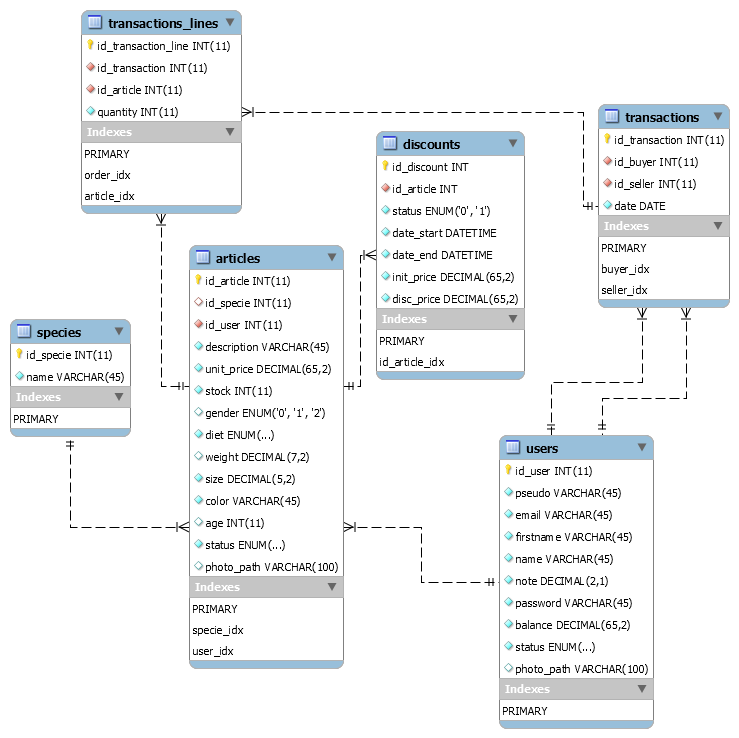
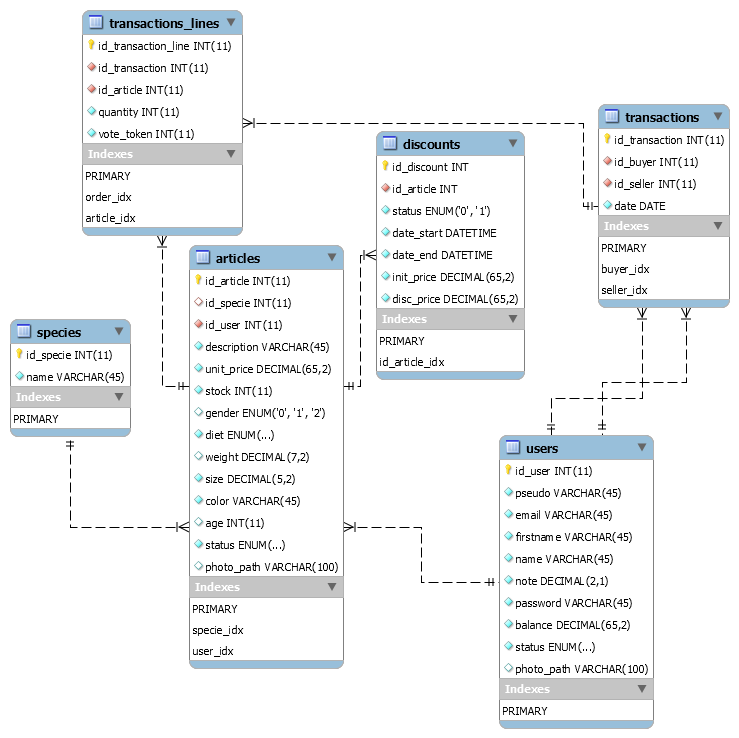
orders_working&vote_token

Changed region(s): [[0.0934, 0.0, 0.3424, 0.3428]]

diff --git a/view/view_orders.php b/view/view_orders.php
@@ -1,0 +1,97 @@
+<!DOCTYPE html>
+<html>
+<head>
+    <meta charset="utf-8" />
+    <title>View_my_orders</title>
+</head>
+<body>
+    <?php if (isset($_POST['ID'])) { echo '<a href="../controller/controller_orders.php"><button>Back</button></a>'; } else { echo '<a href="../controller/account_controller.php"><button>Back</button></a>'; } ?>
+    <h1 align = "center">Voici toutes vos commandes </h1>
+    <?php
+        if (isset($transactions)) {
+            if (!empty($transactions)) {
+                if (!isset($_POST['ID'])) {
+                    for ($i=0; $i<count($transactions) ; $i++) { 
+                        echo '
+                        <table style="font-size: 20px"  class="table" border="1" cellpadding="5" cellspacing="0.5" width="100%">
+                            <tr align = "center">
+                                <td>Order N°'.$transactions[$i]['id_transaction'].'</td>
+                                <td>Date : '.$transactions[$i]['date_transaction'] .'</td>
+                                <td>Seller : '.$transactions[$i]['seller'] .'</td>
+                                <td>
+                                    <form action="../controller/controller_orders.php" method="post">
+                                        <input type="hidden" name="ID" value="'.$transactions[$i]['id_transaction'].'">
+                                        <input type="hidden" name="tl" value="'.$transactions[$i]['id_transaction_line'].'">
+                                        <input type="submit" value="Voir">
+                                    </form>
+                                </td>
+                            </tr>
+                        </table>' ;                    
+                    }
+                } else if (isset($_POST['ID'])) {
+                    for ($i=0; $i<count($transactions) ; $i++) { 
+                        if ($transactions[$i]['id_transaction_line'] == $_POST['tl']) {
+                            echo '
+                            <table style="font-size: 20px" border = 1  class="table" cellpadding="5" cellspacing="0.5" width="100%">
+                                <tr align = "center">
+                                    <td colspan = 3>Order N°'.$transactions[$i]['id_transaction'].'</td>
+                                </tr>
+                                <tr align = "center">
+                                    <td>Date : '.$transactions[$i]['date_transaction'] .'</td>
+                                    <td colspan = 2>Seller : '.$transactions[$i]['seller'] .'</td>
+                                </tr>
+                                <tr align = "center">
+                                    <td>Article name : '.$transactions[$i]['description'] .'</td>
+                                    <td>Amount : x'.$transactions[$i]['quantity'] .'</td>
+                                    <td>Unit price : '.$transactions[$i]['unit_price'] .'</td>
+                                </tr>
+                                <tr>
+                                    <td colspan = 2></td>
+                                    <td align = "center">Total price : '.$transactions[$i]['prix_total'] .'</td>
+                                </tr>';
+                                if(isset($transactions[$i]['vote_token'])) {
+                                    echo '
+                                        <tr>
+                                            <td align = "right" colspan = 4>
+                                                <a href="../controller/controller_orders.php">NOTE YOUR ORDER</a>
+                                            </td>
+                                        </tr>';}
+                                echo '</table>' ;  
+                        }
+                    }
+                }
+            }
+        }
+    ?>
+</body>
+</html>
+
+
+
+<!-- echo '
+            <table style="font-size: 20px"  class="table" border="1" cellpadding="5" cellspacing="0.5" width="25%">
+                <tr>
+                    <td colspan = 2>Bought to : </td>
+                    <td>'.$transactions[$i]['seller'] .'</td>
+                </tr>
+                <tr>
+                    <td colspan = 2>The : </td>
+                    <td>'.$transactions[$i]['date_transction'].'</td>
+                </tr>
+                <tr>
+                    <td colspan = 3>Order N°'.$transactions[$i]['id_transaction'].'</td>
+                </tr>
+                <tr>
+                    <td></td>
+                    <td></td>
+                    <td></td>
+                </tr>
+                <tr>
+                    <td></td>
+                    <td></td>
+                </tr>
+                <tr>
+                    <td></td>
+                </tr>
+            </table>
+            '; -->

diff --git a/model/model_orders.php b/model/model_orders.php
@@ -1,0 +1,41 @@
+<?php
+
+require("../controller/db_connexion.php");
+
+$sql = "SELECT
+    a.description,
+    a.unit_price,
+
+    t.id_transaction,
+    t.id_buyer,
+    t.id_seller,
+    DATE_FORMAT(t.date, '%a %d %M %Y') AS date_transaction,
+
+    tl.id_transaction_line,
+    tl.id_article,
+    tl.quantity,
+    tl.quantity*a.unit_price AS prix_total,
+    tl.vote_token,
+
+    users.pseudo AS seller
+FROM users
+    JOIN articles AS a
+    JOIN transactions_lines AS tl 
+    JOIN transactions AS t
+ON users.id_user = t.id_seller 
+    AND tl.id_article = a.id_article 
+    AND t.id_transaction = tl.id_transaction 
+WHERE t.id_buyer = ".$_SESSION['ID']."
+ORDER BY t.date DESC, tl.id_transaction_line ASC
+;";
+
+$req = $db_connexion->query($sql);
+$i=0;
+while ($row = $req->fetch(PDO::FETCH_ASSOC)){
+    $transactions[$i]=$row;
+    $i++;
+}
+
+var_dump($transactions);
+
+?>

diff --git a/view/account.php b/view/account.php
@@ -11,7 +11,5 @@
 		<form action='../controller/home_controller.php' method='GET'>
 			<button>Back</button></form>
 		</form>
-
-
 	</body>
 </html>

diff --git a/controller/controller_orders.php b/controller/controller_orders.php
@@ -1,0 +1,5 @@
+<?php
+session_start();
+require("../model/model_orders.php");
+require("../view/view_orders.php");
+?>
